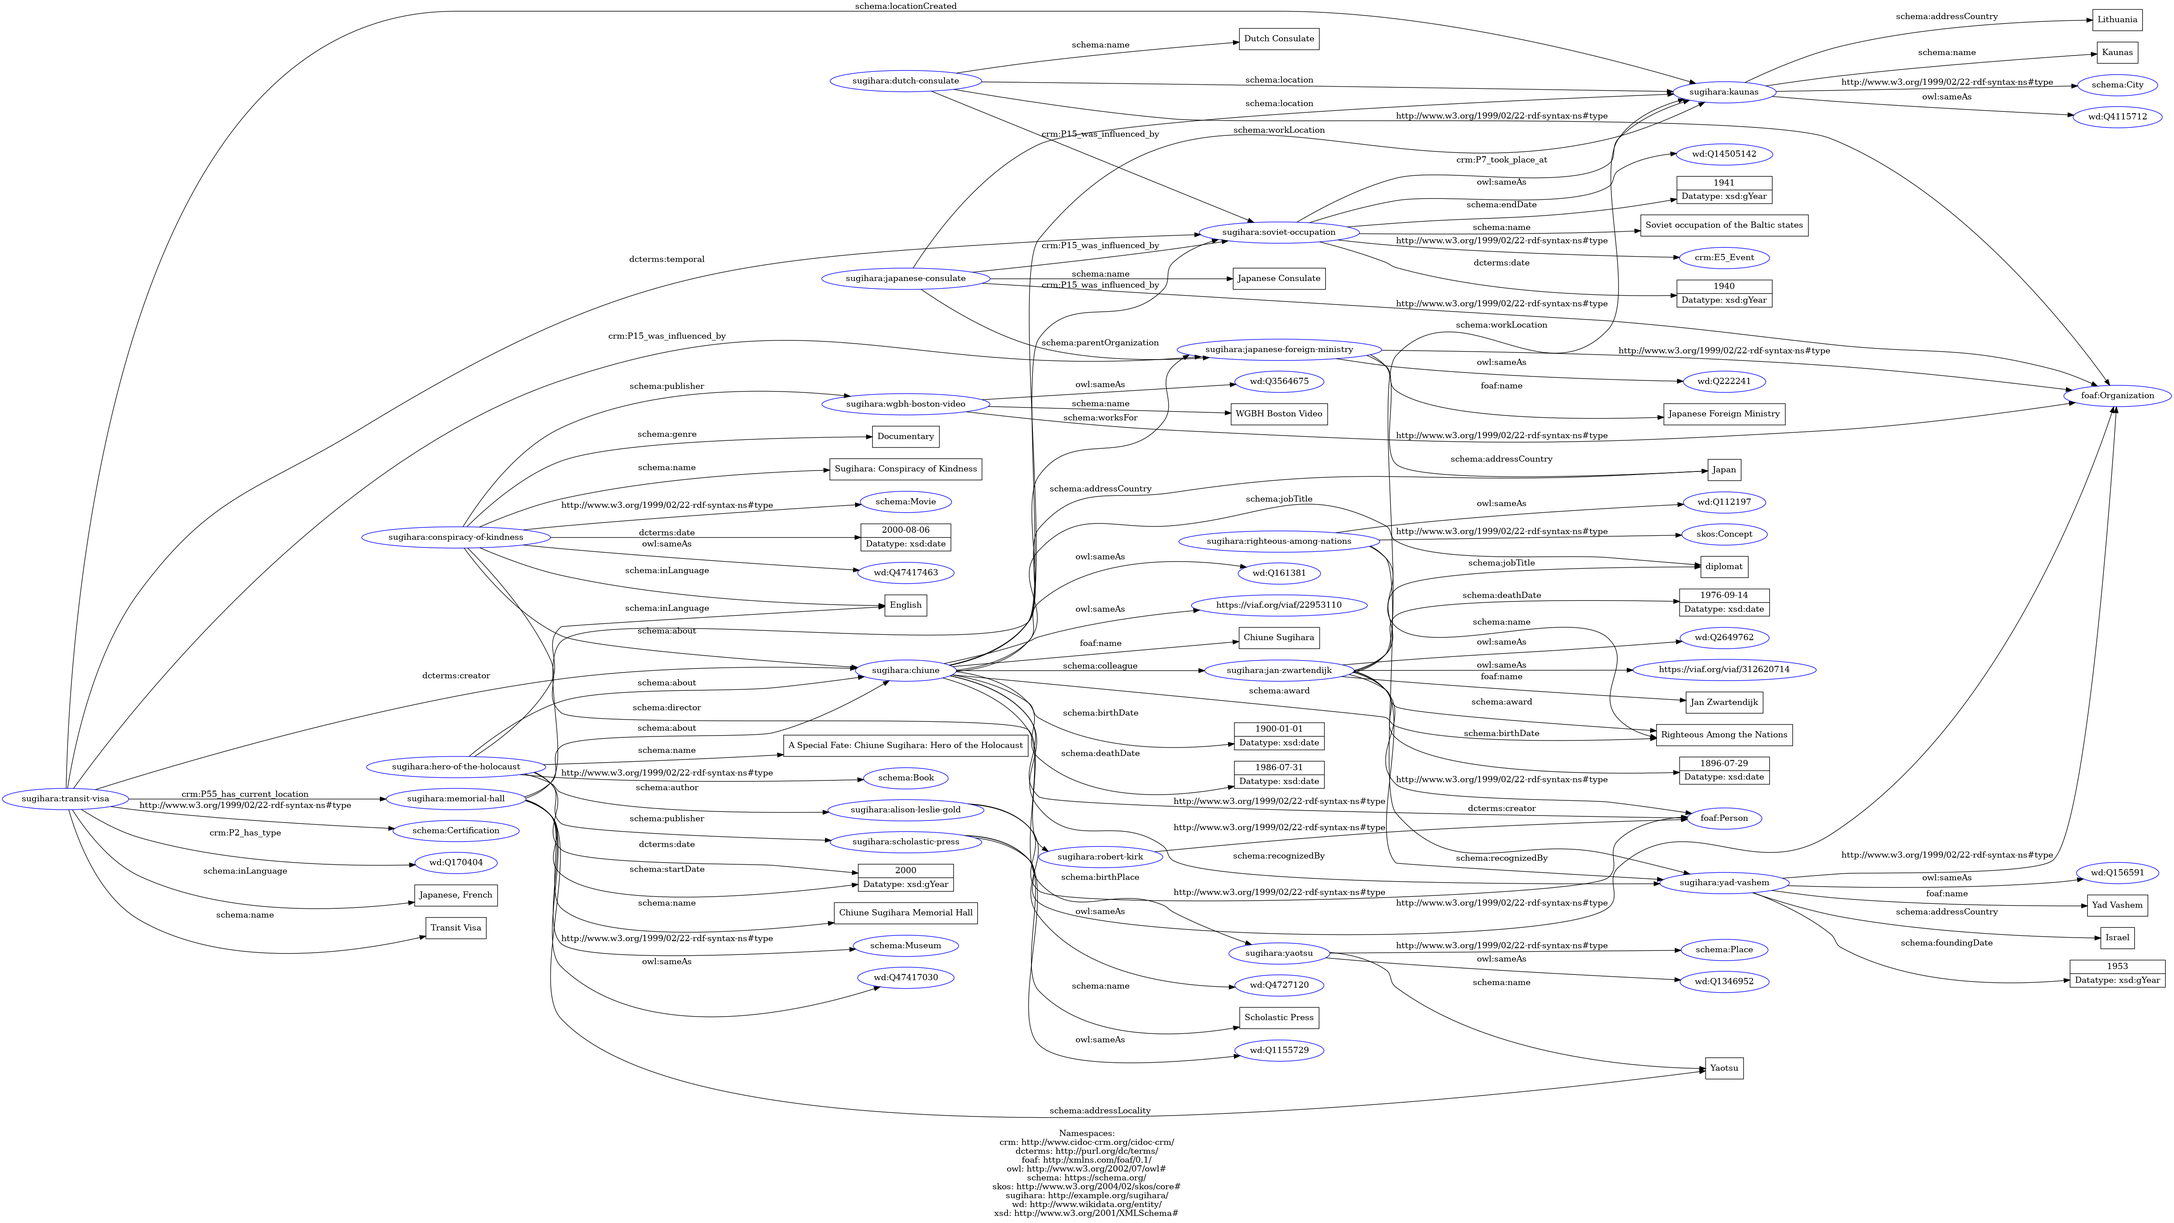
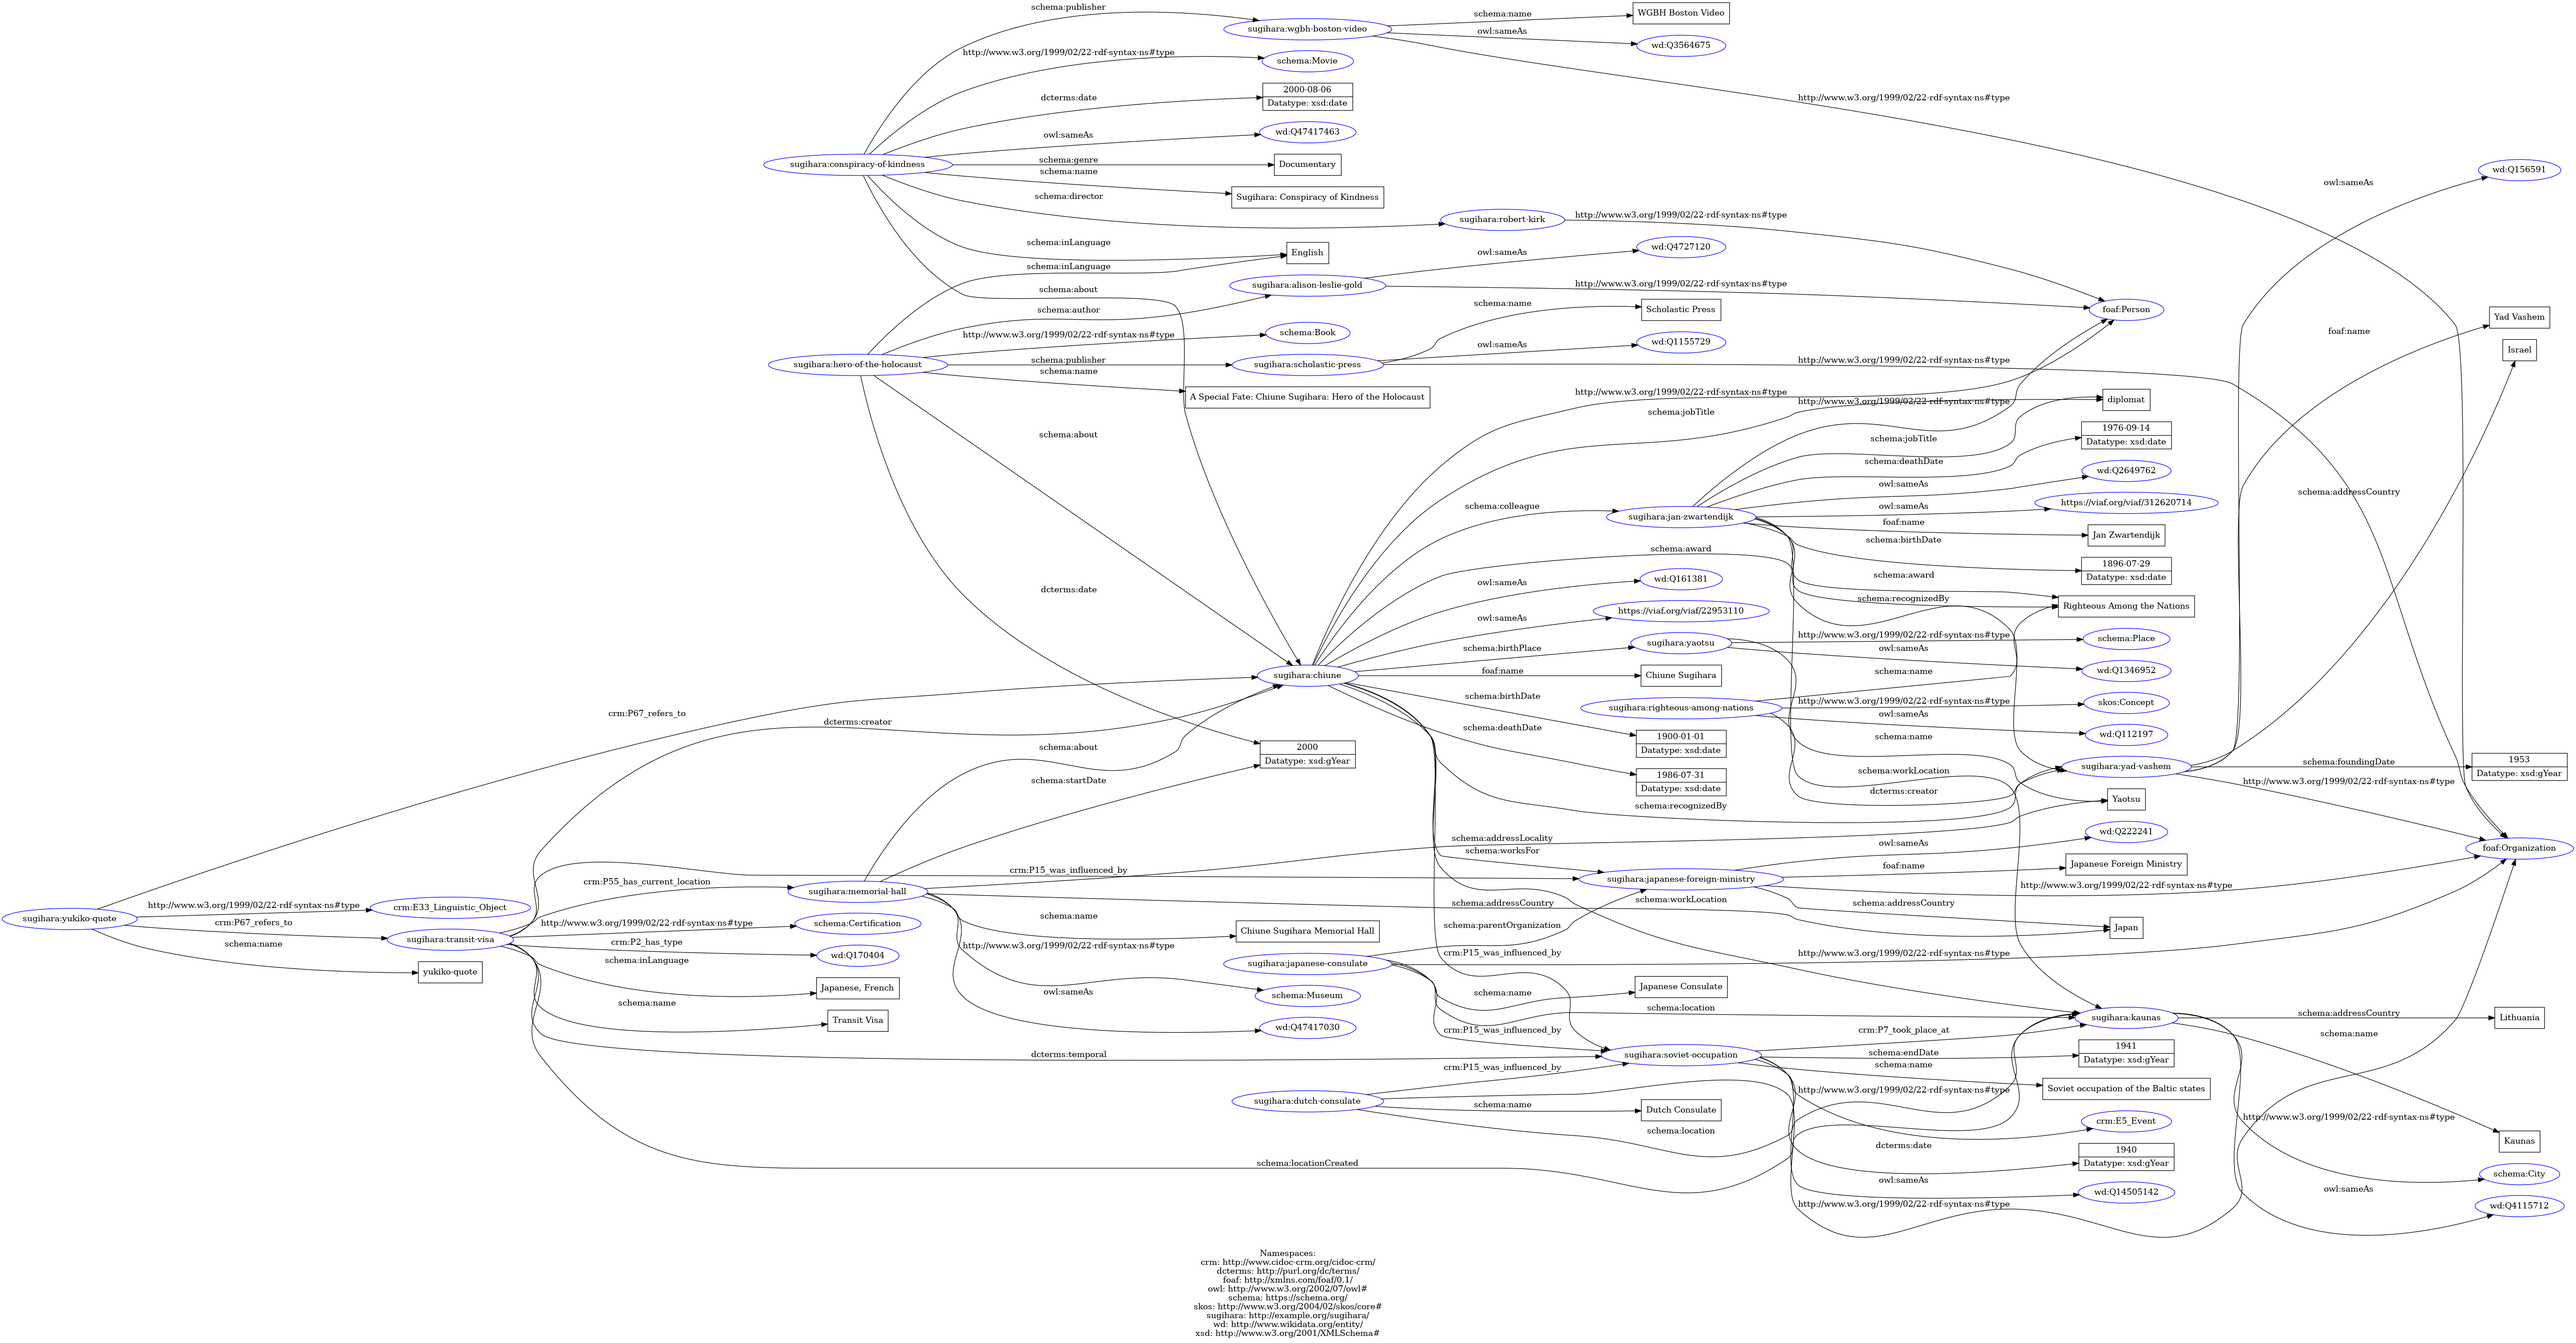
Add quote

diff --git a/tei_to_rdf.py b/tei_to_rdf.py
@@ -23,6 +23,7 @@ TYPES = {
     "conspiracy-of-kindness":    SCHEMA.Movie,
     "hero-of-the-holocaust":     SCHEMA.Book,
     "righteous-among-nations":   SKOS.Concept,
+    "yukiko-quote"           :   CRM.E33_Linguistic_Object
 }
 NO_SAMEAS = {"transit-visa"}
 
@@ -41,8 +42,11 @@ RELATIONS = {
     "commemoratedAt": SCHEMA.about,
     "isSubjectOf": SCHEMA.about,
     "isCreatedBy": DCT.creator,
+    "isReferedTo": CRM.P67_refers_to,
+    "mentions": CRM.P67_refers_to
+
 }
-REVERSE = {"issued", "commemoratedAt", "isSubjectOf", "isCreatedBy"}
+REVERSE = {"issued", "commemoratedAt", "isSubjectOf", "isCreatedBy", "isReferedTo"}
 
 EXCLUDE = {"note", "desc", "geo", "pubPlace", "author", "publisher"}
 HANDLED = {"idno", "persName", "placeName", "orgName", "title",

diff --git a/combine.py b/combine.py
@@ -4,5 +4,5 @@ g = Graph()
 g.parse("output_from_tei.ttl", format="turtle")   # rdf from xml
 g.parse("output_from_csv.ttl", format="turtle")   # rdf from csv
 
-g.serialize(destination="output_combined2.ttl", format="turtle")
+g.serialize(destination="output_combined.ttl", format="turtle")
 print(f"Combination completed successfully. {len(g)} triples saved to output_combined.ttl.")
